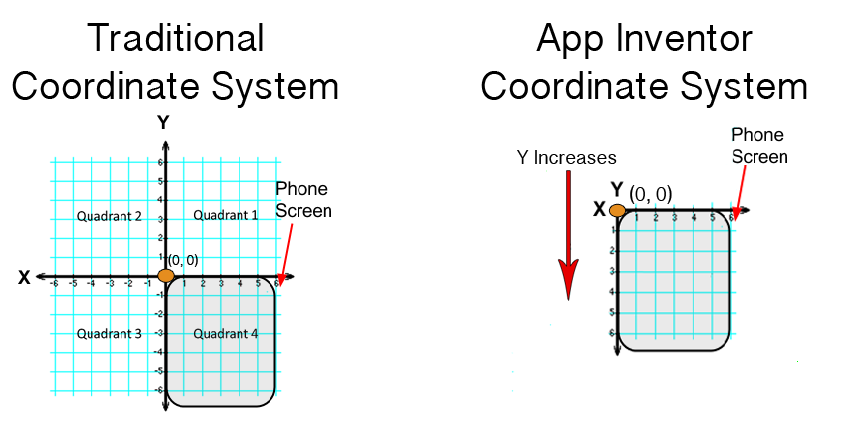
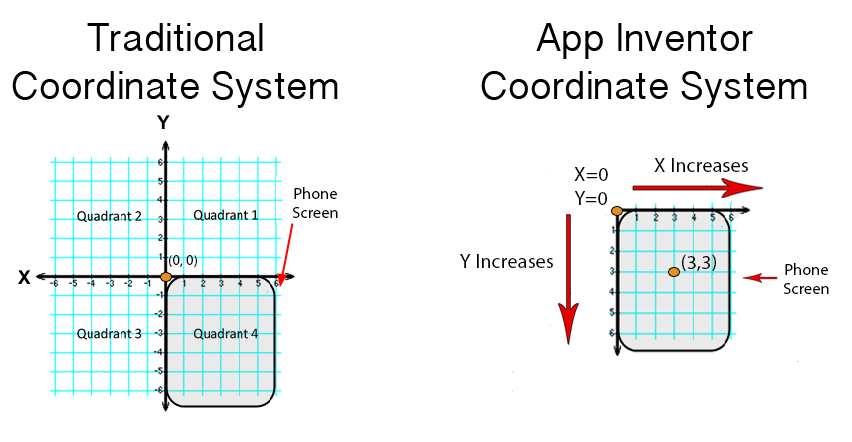
added arranging components

diff --git a/app_controller.py b/app_controller.py
@@ -3306,6 +3306,22 @@ class IntroToProceduresHandler(webapp.RequestHandler):
         path = os.path.join(os.path.dirname(__file__), 'pages/IntroHTMLPages/IntroductiontoProcedures.html')
         self.response.out.write(template.render(path, template_values))   
 
+class ArrangingComponentsHandler(webapp.RequestHandler):
+    def get(self):
+        if redirector(self) == True:
+            return None
+        
+        cacheHandler = CacheHandler()
+        allAppsList = cacheHandler.GettingCache("App", True, "version", "1", True, "number", "ASC", True)
+        allAppsList2 = cacheHandler.GettingCache("App", True, "version", "2", True, "number", "ASC", True)
+        
+        # user status
+        userStatus = UserStatus()
+        userStatus = userStatus.getStatus(self.request.uri)
+        
+        template_values = { 'allAppsList': allAppsList, 'allAppsList2': allAppsList2, 'userStatus': userStatus}
+        path = os.path.join(os.path.dirname(__file__), 'pages/IntroHTMLPages/arrangingComponents.html')
+        self.response.out.write(template.render(path, template_values)) 
 
 class CarouselTestHandler(webapp.RequestHandler):
     def get(self, *args):
@@ -7079,7 +7095,10 @@ application = webapp.WSGIApplication(
         ('/jBridgePaintPot', JBridgePaintPotHandler),
         
         #handlers for procedures gdoc
-        ('/introToProcedures', IntroToProceduresHandler)
+        ('/introToProcedures', IntroToProceduresHandler),
+
+        #handlers for essential training
+        ('/arrangingComponents', ArrangingComponentsHandler)
         
         
         
